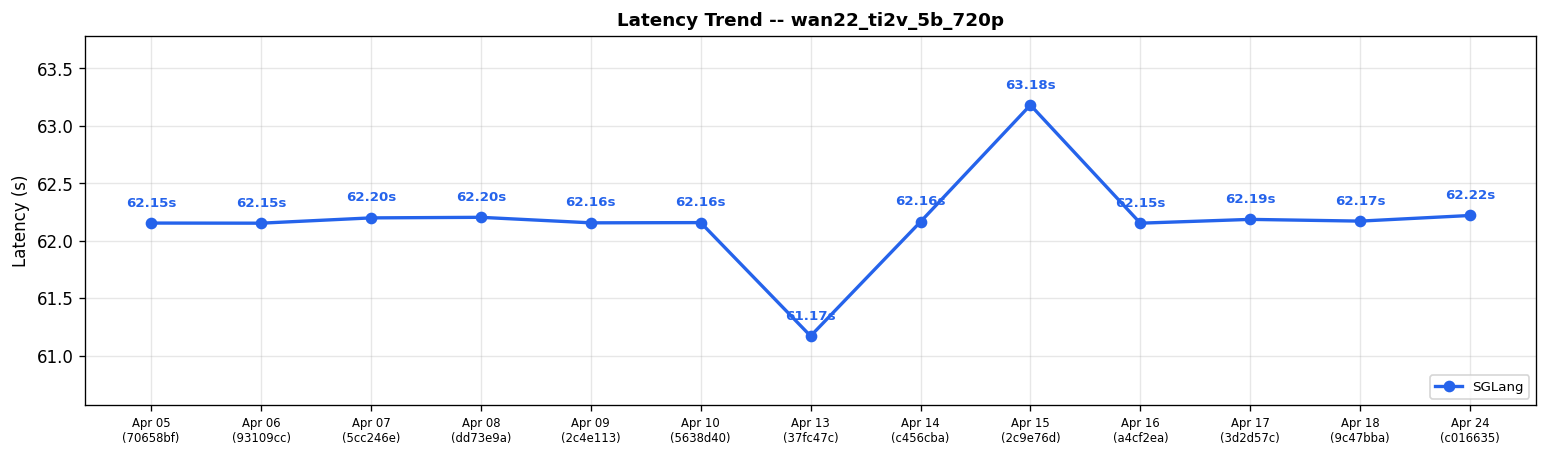
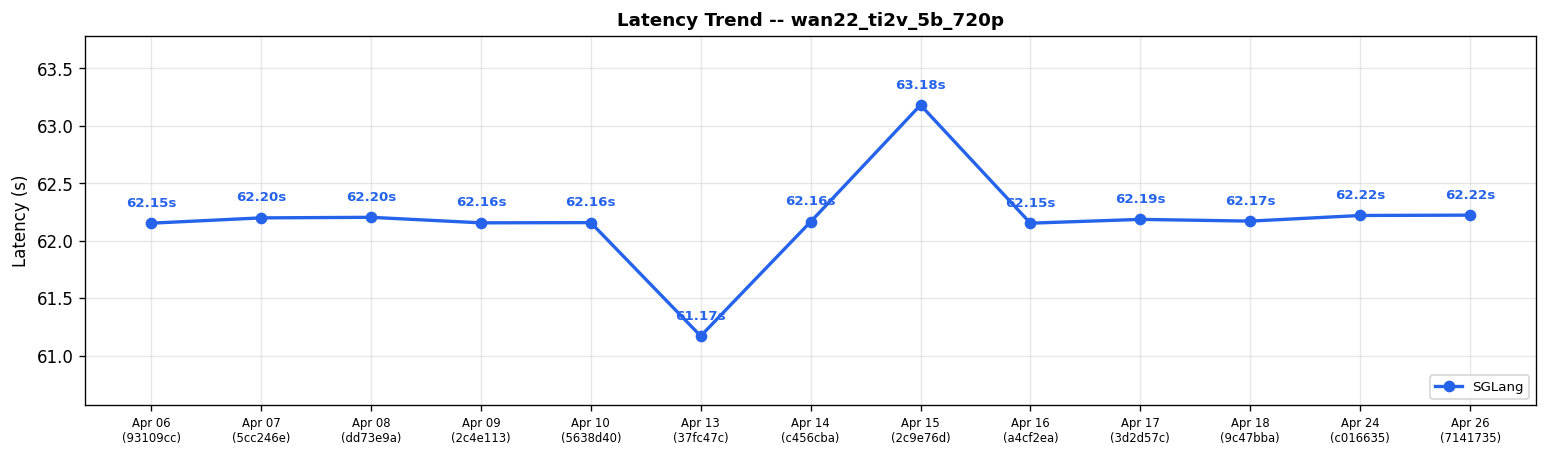
Diffusion comparison results for run 24944658760 (#580)

diff --git a/diffusion-comparisons/dashboard.md b/diffusion-comparisons/dashboard.md
@@ -1,21 +1,21 @@
 # Diffusion Cross-Framework Performance Dashboard
 
-*Generated: Apr 25 | Commit: `a4facdf`*
+*Generated: Apr 26 | Commit: `7141735`*
 
 ## Cross-Framework Performance Comparison
 
 | Model | Risk | sglang (s) |
 |-------|------|---------|
-| FLUX.1-dev | ❌ | N/A |
-| FLUX.2-dev | ❌ | N/A |
-| Qwen-Image-2512 | ❌ | N/A |
-| Qwen-Image-Edit-2511 | ❌ | N/A |
-| Z-Image-Turbo | ❌ | N/A |
-| Wan2.2-T2V-A14B-Diffusers | ❌ | N/A |
-| Wan2.2-TI2V-5B-Diffusers | ❌ | N/A |
-| LTX-2 | ❌ | N/A |
+| FLUX.1-dev | ✅ | **6.71** |
+| FLUX.2-dev | ✅ | **22.84** |
+| Qwen-Image-2512 | ✅ | **13.24** |
+| Qwen-Image-Edit-2511 | ✅ | **23.89** |
+| Z-Image-Turbo | ✅ | **0.89** |
+| Wan2.2-T2V-A14B-Diffusers | ✅ | **212.74** |
+| Wan2.2-TI2V-5B-Diffusers | ✅ | **62.22** |
+| LTX-2 | ✅ | **11.86** |
 | LTX-2.3 | ❌ | N/A |
-| Wan2.2-I2V-A14B-Diffusers | ❌ | N/A |
+| Wan2.2-I2V-A14B-Diffusers | ✅ | **208.55** |
 
 ### Latency Trend: flux1_dev_t2i_1024
 
@@ -71,6 +71,7 @@
 
 | Date | Commit | flux1_dev_t2i_1024 (s) | flux2_dev_t2i_1024 (s) | qwen_image_2512_t2i_1024 (s) | qwen_image_edit_2511 (s) | zimage_turbo_t2i_1024 (s) | wan22_t2v_a14b_720p (s) | wan22_ti2v_5b_720p (s) | ltx2_twostage_t2v (s) | ltx2.3_twostage_ti2v_2gpus (s) | wan22_i2v_a14b_720p (s) | Trend |
 |------|--------|---------|---------|---------|---------|---------|---------|---------|---------|---------|---------|-------|
+| Apr 26 | `7141735` | 6.71 | 22.84 | 13.24 | 23.89 | 0.89 | 212.74 | 62.22 | 11.86 | N/A | 208.55 |          |
 | Apr 25 | `a4facdf` | N/A | N/A | N/A | N/A | N/A | N/A | N/A | N/A | N/A | N/A |          |
 | Apr 24 | `c016635` | 6.71 | 22.81 | 13.77 | 23.83 | 0.89 | 211.38 | 62.22 | 16.09 | 69.23 | 209.67 | :left_right_arrow:  :left_right_arrow:  :arrow_up:  :left_right_arrow:  :left_right_arrow:    :arrow_down:  :arrow_up:  |
 | Apr 23 | `c689f77` | 6.60 | 22.62 | 13.03 | 23.68 | 0.88 | N/A | N/A | 16.75 | 58.19 | N/A | :left_right_arrow:  :left_right_arrow:  :left_right_arrow:  :left_right_arrow:  :left_right_arrow:    :arrow_up:  :arrow_down:  |
@@ -84,23 +85,13 @@
 | Apr 09 | `2c4e113` | 6.71 | 22.93 | 13.20 | 23.80 | 0.89 | 210.35 | 62.16 | 14.71 | N/A | 206.54 | :left_right_arrow:  :left_right_arrow:  :left_right_arrow:  :left_right_arrow:  :left_right_arrow:  :left_right_arrow:  :left_right_arrow:  :arrow_down:   :left_right_arrow: |
 | Apr 08 | `dd73e9a` | 6.83 | 22.96 | 13.19 | 23.84 | 0.89 | 210.25 | 62.20 | 15.24 | N/A | 206.65 | :arrow_up:  :left_right_arrow:  :left_right_arrow:  :left_right_arrow:  :left_right_arrow:  :left_right_arrow:  :left_right_arrow:  :left_right_arrow:   :left_right_arrow: |
 | Apr 07 | `5cc246e` | 6.69 | 22.92 | 13.19 | 23.83 | 0.89 | 210.64 | 62.20 | 15.11 | N/A | 207.62 | :left_right_arrow:  :left_right_arrow:  :arrow_down:  :left_right_arrow:  :left_right_arrow:  :left_right_arrow:  :left_right_arrow:  :arrow_up:   :left_right_arrow: |
-| Apr 06 | `93109cc` | 6.70 | 22.86 | 13.61 | 23.92 | 0.89 | 210.73 | 62.15 | 14.13 | N/A | 207.67 | :left_right_arrow:  :left_right_arrow:  :arrow_down:  :left_right_arrow:  :left_right_arrow:  :left_right_arrow:  :left_right_arrow:  :left_right_arrow:   :left_right_arrow: |
-| Apr 05 | `70658bf` | 6.68 | 22.80 | 14.12 | 23.80 | 0.88 | 209.31 | 62.15 | 14.06 | N/A | 204.55 | -- |
+| Apr 06 | `93109cc` | 6.70 | 22.86 | 13.61 | 23.92 | 0.89 | 210.73 | 62.15 | 14.13 | N/A | 207.67 | -- |
 
 > [!CAUTION]
 > **Action Required — Performance Alert**
 >
 > The following cases need attention:
-> - flux1_dev_t2i_1024: SGLang latency is N/A (broken)
-> - flux2_dev_t2i_1024: SGLang latency is N/A (broken)
-> - qwen_image_2512_t2i_1024: SGLang latency is N/A (broken)
-> - qwen_image_edit_2511: SGLang latency is N/A (broken)
-> - zimage_turbo_t2i_1024: SGLang latency is N/A (broken)
-> - wan22_t2v_a14b_720p: SGLang latency is N/A (broken)
-> - wan22_ti2v_5b_720p: SGLang latency is N/A (broken)
-> - ltx2_twostage_t2v: SGLang latency is N/A (broken)
 > - ltx2.3_twostage_ti2v_2gpus: SGLang latency is N/A (broken)
-> - wan22_i2v_a14b_720p: SGLang latency is N/A (broken)
 
 
 ---
